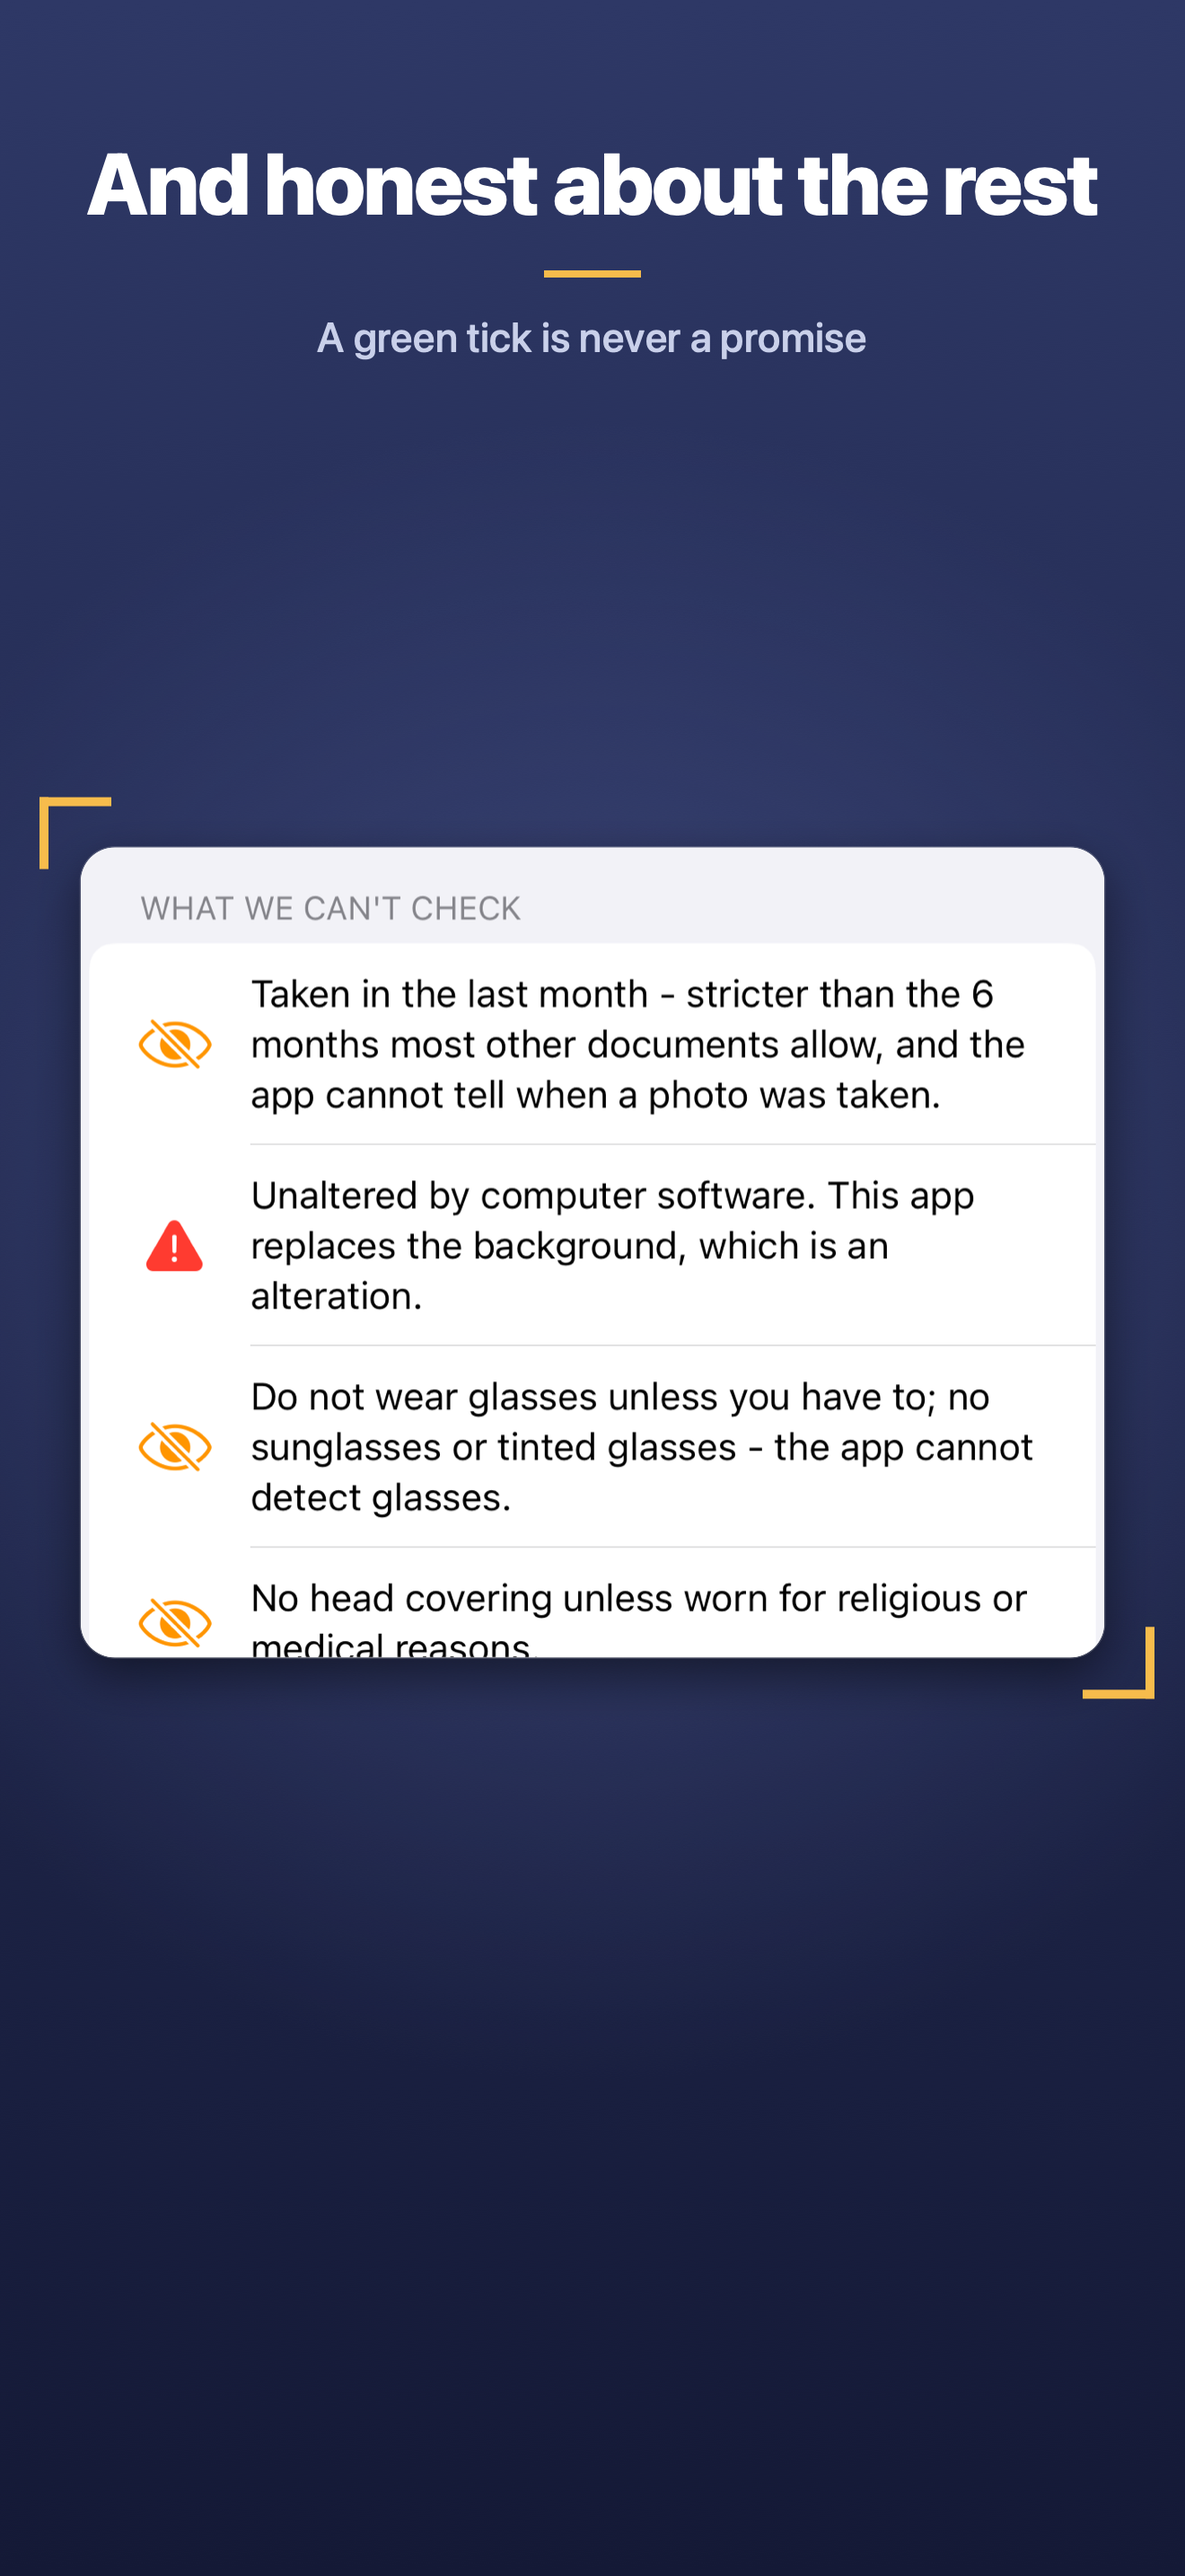
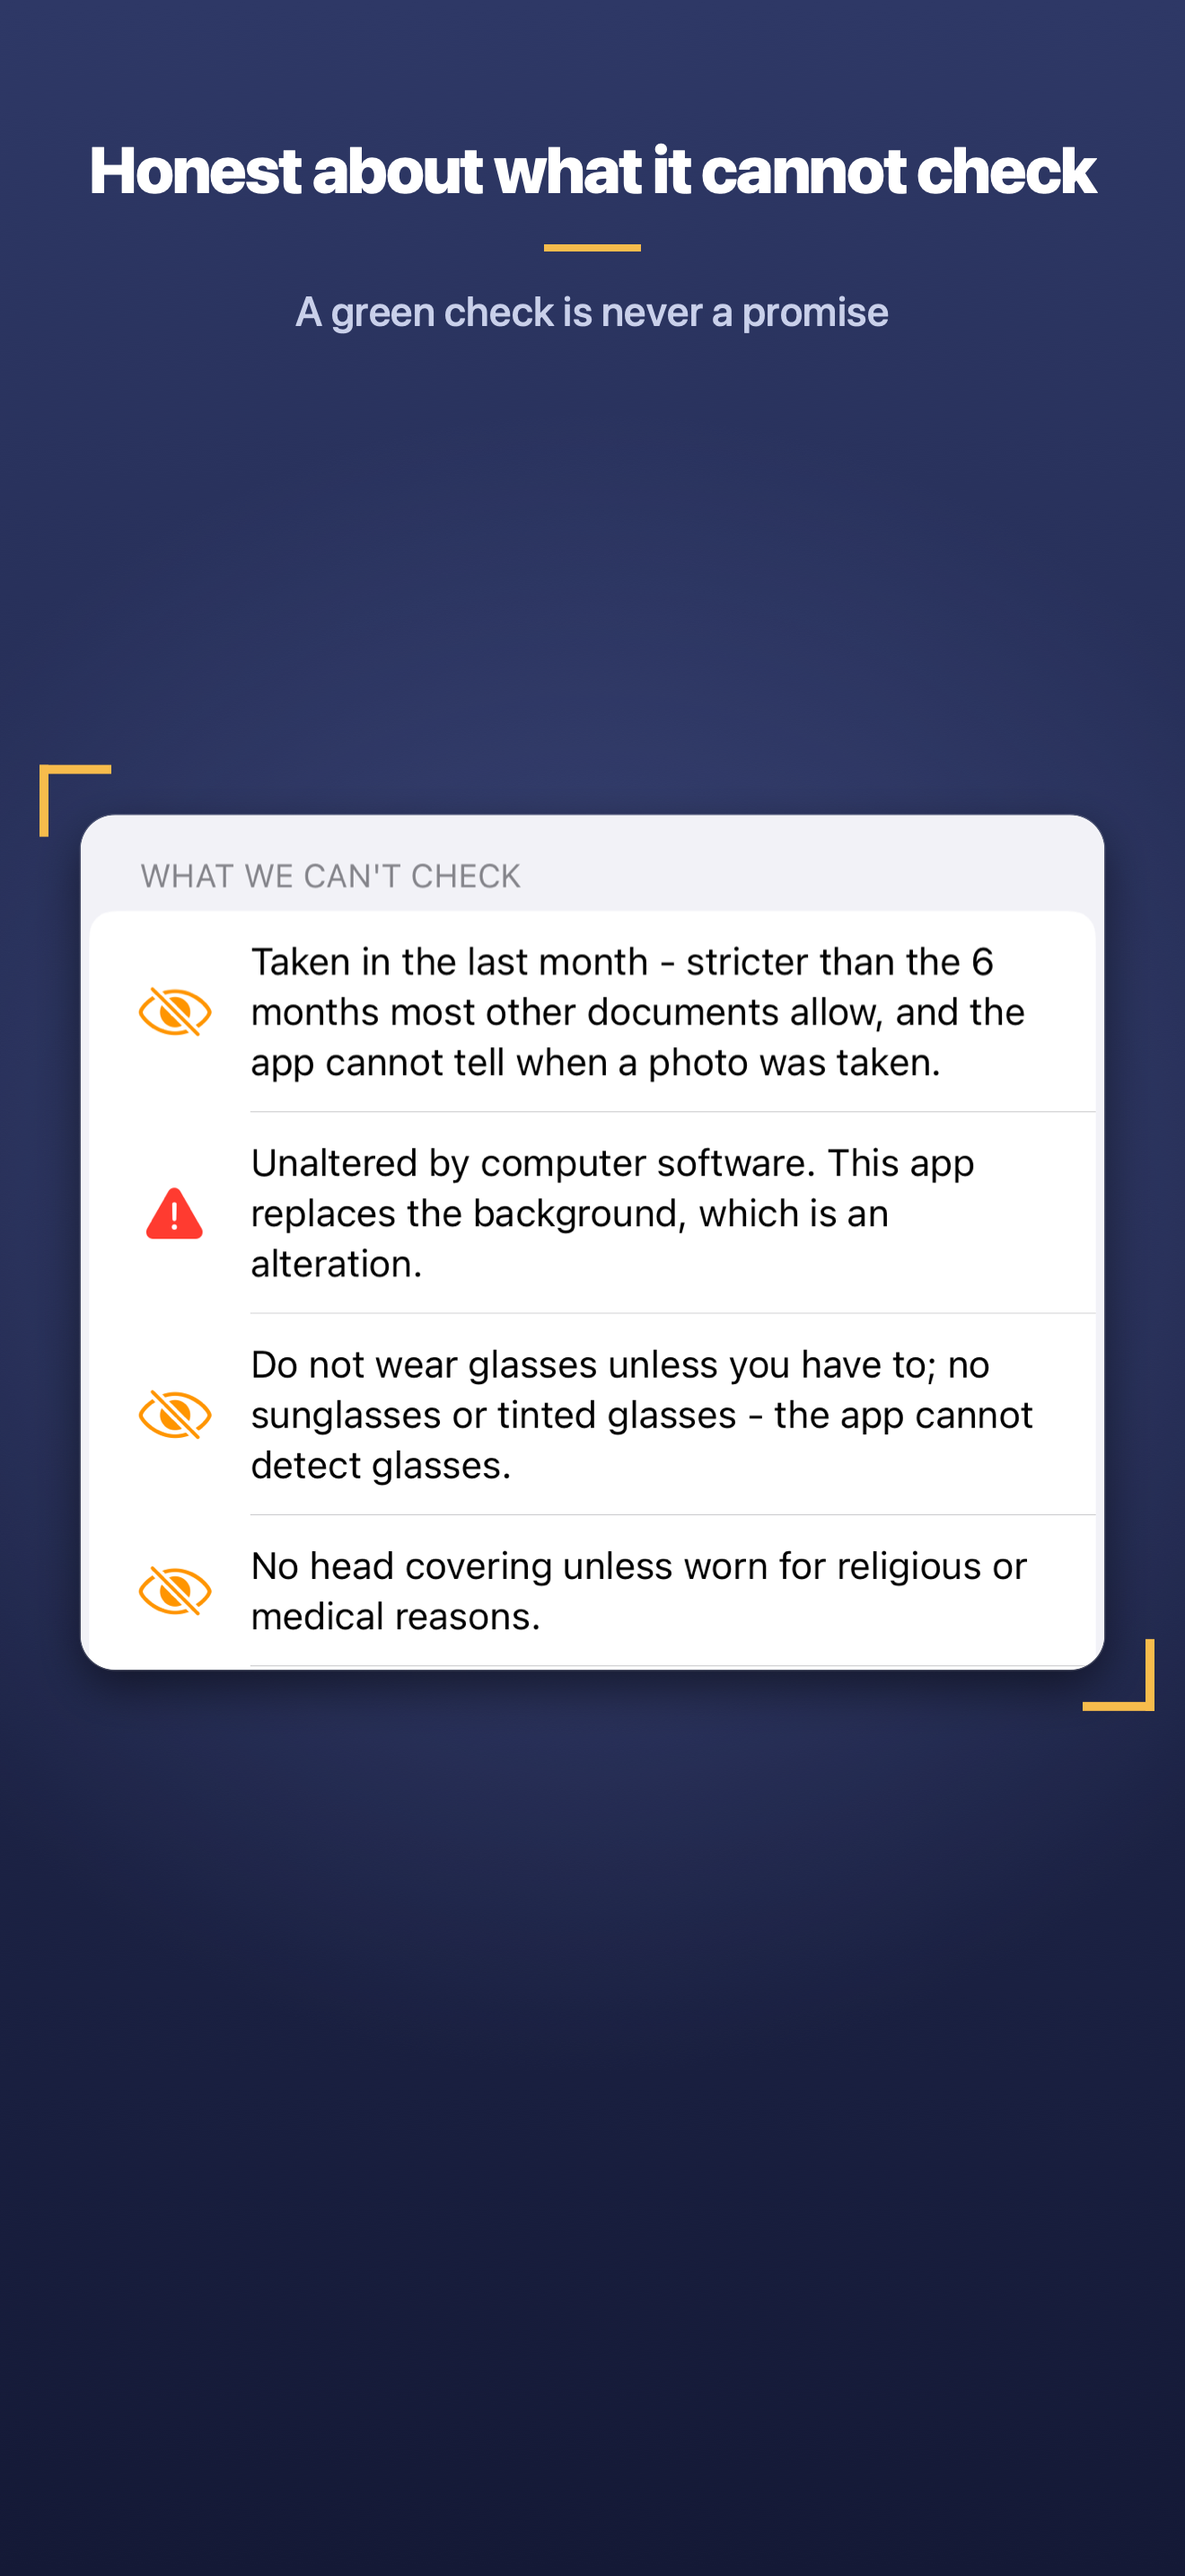
Marketing set: lead with what the app does, and stop clipping sentences
The first slide said "The photo you already have", which describes the input
rather than the product. Someone scrolling search results has not agreed to
hear a story yet, and Apple shows one or two of these before anyone taps. It
now reads "Turn a photo into a passport photo", which is the thing itself.

Same problem one step down: "And honest about the rest" and "Then exactly how
to print it" only parse if you already read the slide before. Both now stand
alone. "Green tick" became "green check" to match the US store listing.

Slide 1 is cropped past the lower half of the home screen, which is empty.
The device outline was costing more than it bought.

Slide 3 was cutting a sentence in half: "No head covering unless worn for
religious or medical reasons" ended mid-word, with the scroll indicator
caught in frame, which reads as a bug rather than a design. Took three passes
to land on a crop that ends on a divider, so the README now says to look at
the render after changing one.

The README's slide table had also drifted: it listed six slides and four
filenames that do not exist.

Changed region(s): [[0.0311, 0.2793, 0.9629, 0.6827], [0.0621, 0.0621, 0.9318, 0.1552]]

diff --git a/tools/store-shot.swift b/tools/store-shot.swift
@@ -1,9 +1,13 @@
 // Renders the App Store screenshot set.
 //
-// The set is a narrative, not five pictures of the app: the photo you already have, measured,
-// honest about its limits, printed, and free. Slides that make a point about one part of a
-// screen show that part enlarged, because a whole iPhone screen is unreadable at the size these
-// are actually browsed at.
+// The set is a narrative, not five pictures of the app: what it does, measured, honest about
+// its limits, printed, and free. Slides that make a point about one part of a screen show that
+// part enlarged, because a whole iPhone screen is unreadable at the size these are actually
+// browsed at.
+//
+// Every headline has to stand on its own. Apple shows one or two of these in search results,
+// so a caption that only makes sense after reading the previous slide is a caption most people
+// will never understand.
 //
 // usage: store-shot <raw-capture-dir> <output-dir>
 import AppKit
@@ -48,10 +52,12 @@ struct Slide {
 
 // The story, in order. The first two are what most people ever see.
 let slides: [Slide] = [
-    Slide(file: "01-your-photo.png", source: "1-home.png",
-          headline: "The photo you already have",
-          subline: "Cut to the exact size your document wants",
-          presentation: .device),
+    Slide(file: "01-what-it-does.png", source: "1-home.png",
+          headline: "Turn a photo into a passport photo",
+          subline: "Cut to the exact size your country requires",
+          // Cropped past the empty lower half of the home screen. At the size these are
+          // actually browsed, dead white space costs more than the device outline buys.
+          presentation: .detail(CGRect(x: 30, y: 250, width: 1260, height: 2000))),
 
     Slide(file: "02-measured.png", source: "3-requirements.png",
           headline: "Measured, not guessed",
@@ -59,17 +65,17 @@ let slides: [Slide] = [
           presentation: .detail(CGRect(x: 50, y: 420, width: 1220, height: 1300))),
 
     Slide(file: "03-honest.png", source: "3-requirements.png",
-          headline: "And honest about the rest",
-          subline: "A green tick is never a promise",
-          presentation: .detail(CGRect(x: 50, y: 1780, width: 1220, height: 965))),
+          headline: "Honest about what it cannot check",
+          subline: "A green check is never a promise",
+          presentation: .detail(CGRect(x: 50, y: 1780, width: 1220, height: 1018))),
 
     Slide(file: "04-print.png", source: "4-saved-sheet.png",
-          headline: "Then exactly how to print it",
+          headline: "Exactly how to print it",
           subline: "Paper, copies, and where to submit them",
           presentation: .detail(CGRect(x: 45, y: 965, width: 1230, height: 1370))),
 
     Slide(file: "05-countries.png", source: "2-picker.png",
-          headline: "Several countries, one tap",
+          headline: "Ten passports and visas",
           subline: "Free. No account. Nothing uploaded.",
           presentation: .device),
 ]

diff --git a/docs/store/README.md b/docs/store/README.md
@@ -18,16 +18,23 @@ pictures of an app, because most people swipe the first two and stop:
 
 | File | Headline | The beat |
 |---|---|---|
-| `01-your-photo.png` | The photo you already have | You do not need a new photo, or a shop |
-| `02-measured.png` | Measured, not guessed | A real finished photo, measured on screen |
-| `03-rules.png` | Every rule, checked | It is measurement, not a crop tool |
-| `04-honest.png` | And honest about the rest | The thing no competitor does |
-| `05-print.png` | Then exactly how to print it | The part people actually get wrong |
-| `06-countries.png` | Several countries, one tap | Free, no account, nothing uploaded |
+| `01-what-it-does.png` | Turn a photo into a passport photo | What the app is, in one line |
+| `02-measured.png` | Measured, not guessed | It is measurement, not a crop tool |
+| `03-honest.png` | Honest about what it cannot check | The thing no competitor does |
+| `04-print.png` | Exactly how to print it | The part people actually get wrong |
+| `05-countries.png` | Ten passports and visas | Free, no account, nothing uploaded |
 
-Slides 2 to 5 show **one part of a screen, enlarged**, not the whole screen. A full iPhone
-screen is unreadable at the size these are browsed at, and the detail is the point in each case.
-Slides 1 and 5 show the whole app, running off the bottom edge so it reads as a device in use.
+All five show **one part of a screen, enlarged**, except the last. A full iPhone screen is
+unreadable at the size these are browsed at, and on the home screen the lower half is empty.
+
+Every headline stands on its own. Apple shows one or two of these in search results, so a
+caption that only parses after reading the previous slide is one most people never read. That
+is why slide 1 names the function rather than opening a story, and why slides 3 and 4 no longer
+begin with "And" and "Then".
+
+When changing a `.detail` crop, re-render and look at the result. The crop is in source pixels
+and does not know where a row ends, so it will happily cut a sentence in half or catch the
+scroll indicator.
 
 1320 x 2868 is the 6.9 inch size. Apple scales it down for smaller devices, so this one set
 covers every iPhone.
